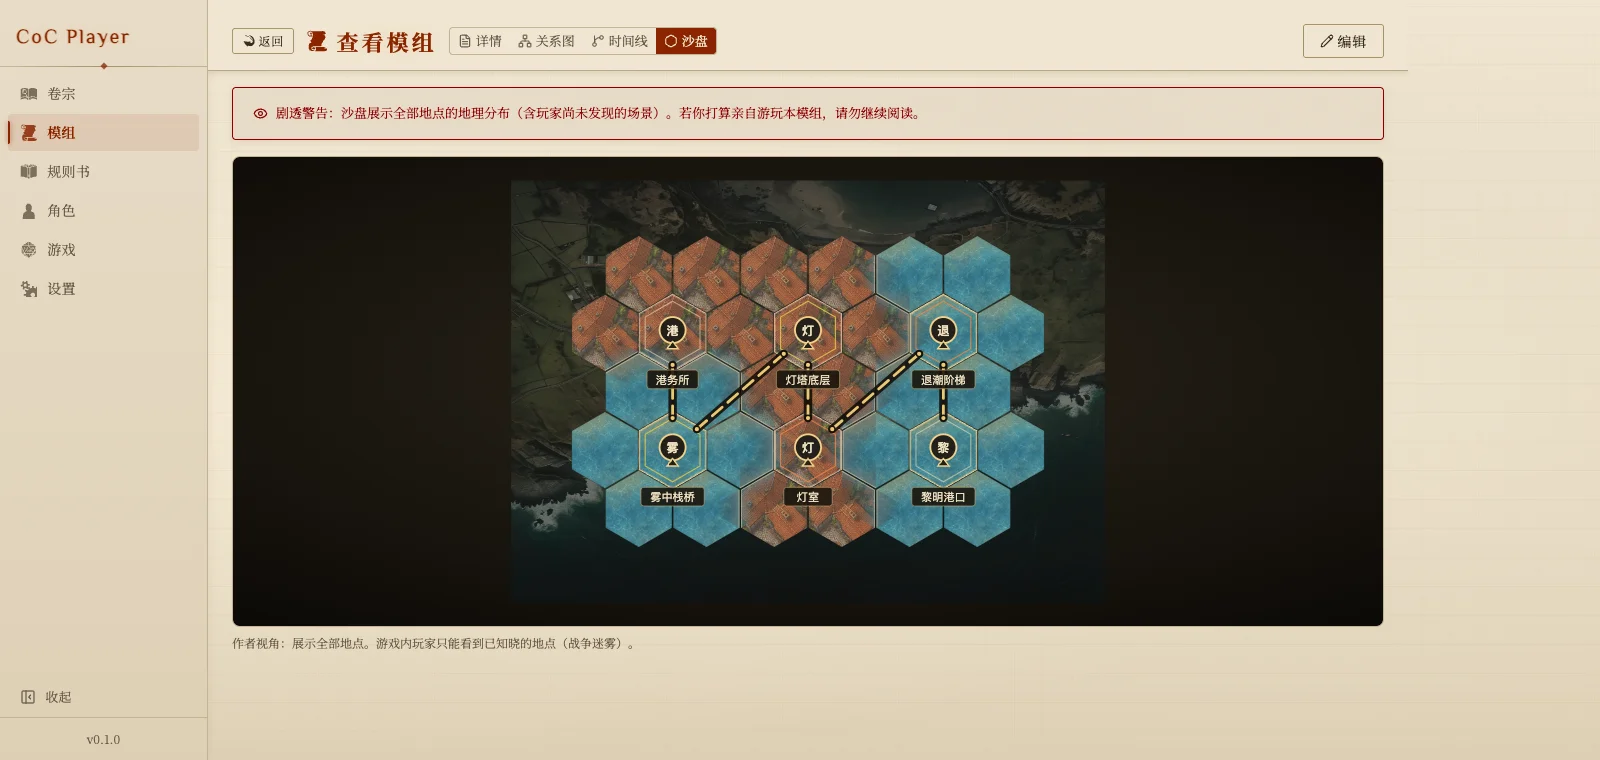
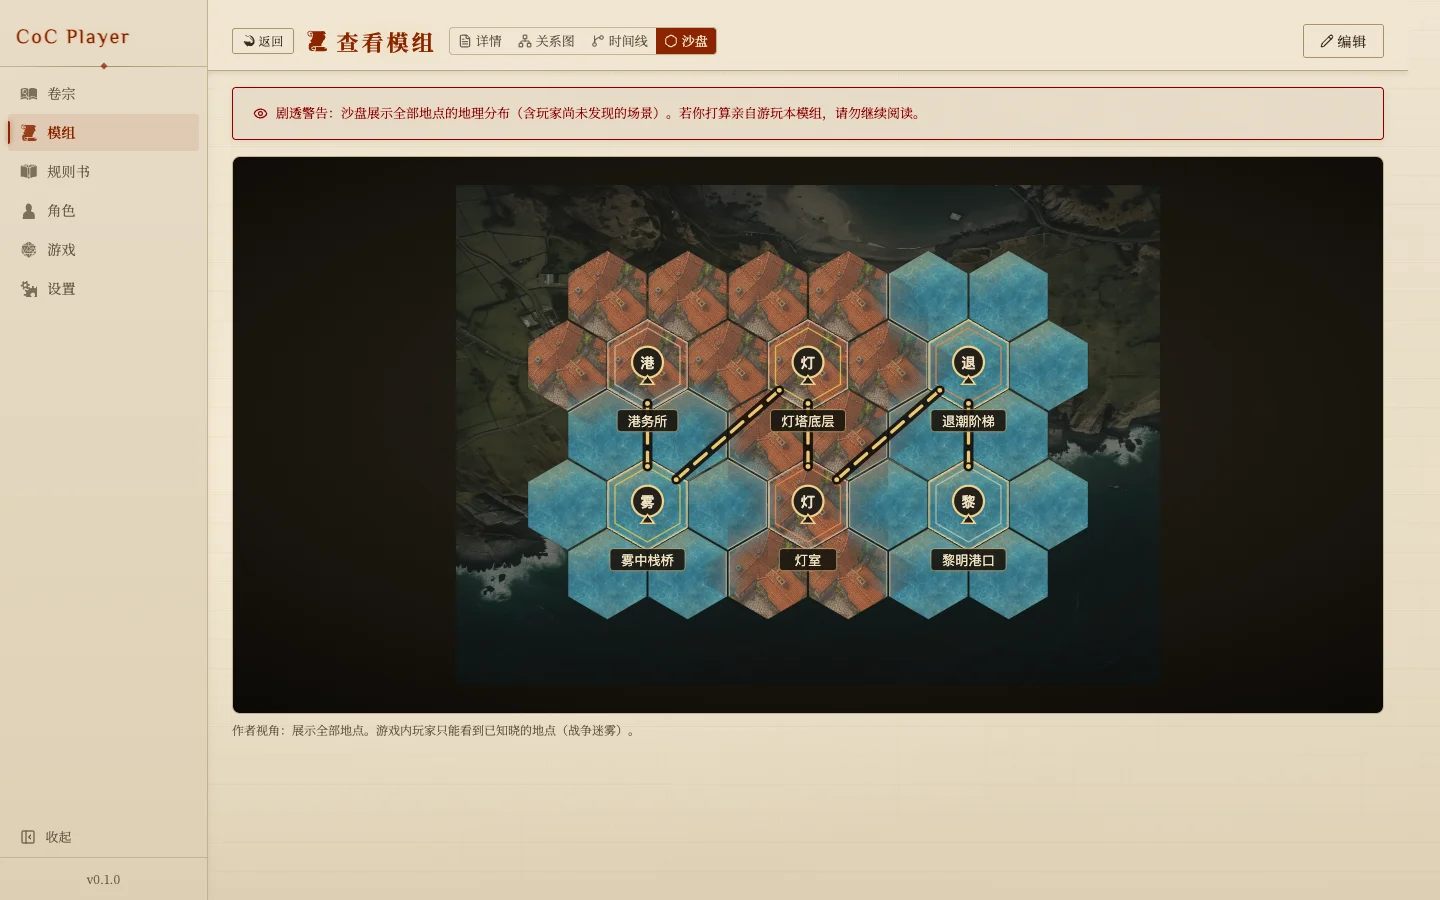
截图回到 16:10，补上介绍页最该有的那张：对局界面
两处修正。

一、上一版按「各页内容量」单独定高，想把留白裁干净，结果每张图比例都不一样
（3.8:1、2.9:1、2.1:1），一张都不像应用窗口。留白多是内容本身的事，不该靠压扁
窗口去掩盖——全部回到 16:10。

二、介绍页讲了导本子、村规、车卡、联机、配模型，唯独没有「跑起来是什么样」，
而那才是这东西的正题。补一张对局界面，放在「能做什么」六张卡之后、全宽展示：
图文两列那一列只有 587px 宽，2000px 的图缩到 0.29 倍，字全糊了。

游戏页比别的页多几道坎：

- 会话按 X-Player-Token 授权，没有 token 连 /api/sessions 都是空的。token 就是
  房主席位的 owner_token，从本机库里取出来注入 localStorage，等价于「你自己在
  自己机器上打开了这一局」。不写死会话 id，挑最近动过的一局，谁跑都能截到自己的桌。
- SSE 长连接一直开着，networkidle 永远等不到，改成只等 DOM 再靠固定时长兜底。
- 新手引导会蒙一层挖洞遮罩，整页被压暗，截出来是张灰片；标成看过。
- 侧边栏展开时占掉五分之一的宽，收起。
- 出图 2000×1250 但按 1333×833 排版再 1.5× 放大：介绍页把图缩到千把像素宽显示，
  1× 的图缩一半字就只剩一半大。倍率也不能再抬——2× 意味着 1000px 的逻辑宽度，
  那时侧边栏和角色卡把消息区挤成一条，叙述只剩几行。

og:image 换回首页：它比例正常了，比沙盘更像门面。

diff --git a/site/index.html b/site/index.html
@@ -10,7 +10,7 @@
 <meta property="og:title" content="CoC Player —— AI 当守秘人的本地跑团桌面应用">
 <meta property="og:description" content="AI 担任守秘人和 NPC，一个人也能开团。本地优先，数据存在自己机器上。macOS / Windows 桌面应用。">
 <!-- 部署到正式域名后，把下面两行换成绝对地址，否则部分平台抓不到预览图 -->
-<meta property="og:image" content="assets/shots/gothic-sandbox.webp">
+<meta property="og:image" content="assets/shots/gothic-home.webp">
 <meta name="twitter:card" content="summary_large_image">
 <meta name="theme-color" content="#0c0e13">
 
@@ -529,7 +529,7 @@
       </div>
 
       <figure class="shot" style="margin-bottom:0">
-        <img src="assets/shots/gothic-home.webp" data-shot="home" width="2000" height="520"
+        <img src="assets/shots/gothic-home.webp" data-shot="home" width="2000" height="1250"
              alt="CoC Player 首页：体验新手团、开始游戏、上传模组三个入口，底部是一条可展开的新人速览">
       </figure>
       <p class="shot-cap">首页。第一次跑团的人可以直接从「体验新手团」进入原创示例短团《雾港失灯事件》。</p>
@@ -636,6 +636,12 @@
           <p>多席位房间、房间码、等待大厅、真人认领席位，空位交给 AI 队友。同一局域网直连，或用内置的点对点直连组网。</p>
         </div>
       </div>
+
+      <figure class="shot">
+        <img src="assets/shots/gothic-game.webp" data-shot="game" width="2000" height="1250" loading="lazy"
+             alt="对局界面：顶部是四个席位和分头行动的两条支线，中间依次是两名 AI 队友各自的行动、守秘人的场景叙述、一次「侦查」检定掷出 71 未过 55 的结果，以及花 16 点幸运补上还是放弃的询价；右侧常驻角色卡，显示 HP、SAN、MP、属性与雷达图">
+      </figure>
+      <p class="shot-cap">对局界面。空着的席位交给 AI 队友，各自行动、各自掷骰；队伍分头行动时，两条线分栏并排推进。</p>
     </div>
   </section>
 
@@ -653,7 +659,7 @@
           </ul>
         </div>
         <figure class="shot" style="margin-top:0">
-          <img src="assets/shots/gothic-sandbox.webp" data-shot="sandbox" width="1600" height="760" loading="lazy"
+          <img src="assets/shots/gothic-sandbox.webp" data-shot="sandbox" width="1440" height="900" loading="lazy"
                alt="模组沙盘视图：示例模组《雾港失灯事件》的地点以六边形网格排布，标出港务所、雾中栈桥、灯塔底层、灯室、退潮阶梯与黎明港口之间的通路">
         </figure>
       </div>
@@ -669,7 +675,7 @@
           </ul>
         </div>
         <figure class="shot" style="margin-top:0">
-          <img src="assets/shots/gothic-rulebooks.webp" data-shot="rulebooks" width="1600" height="560" loading="lazy"
+          <img src="assets/shots/gothic-rulebooks.webp" data-shot="rulebooks" width="1440" height="900" loading="lazy"
                alt="规则书页面：左侧是可逐项调整的村规参数与桌面约定文本框，右侧是已装载规则书的上传区">
         </figure>
       </div>
@@ -685,7 +691,7 @@
           </ul>
         </div>
         <figure class="shot" style="margin-top:0">
-          <img src="assets/shots/gothic-char-wizard.webp" data-shot="char-wizard" width="1600" height="640" loading="lazy"
+          <img src="assets/shots/gothic-char-wizard.webp" data-shot="char-wizard" width="1440" height="900" loading="lazy"
                alt="创建角色向导：顶部是基本信息、属性设定、职业选择、技能加点、背景故事、随身物品六个步骤，页面提供 Excel 导入与 AI 生成角色卡入口">
         </figure>
       </div>
@@ -744,7 +750,7 @@
       </div>
 
       <figure class="shot">
-        <img src="assets/shots/gothic-settings.webp" data-shot="settings" width="1600" height="560" loading="lazy"
+        <img src="assets/shots/gothic-settings.webp" data-shot="settings" width="1440" height="900" loading="lazy"
              alt="设置页的 AI 配置面板：分对话模型与生图模型两个标签页，提示还没有启用任何配置，右上角是新增配置按钮">
       </figure>
       <p class="shot-cap">AI 配置面板。对话模型负责叙述、NPC 与裁定；生图模型是可选的，用来给场景和角色配图。</p>
